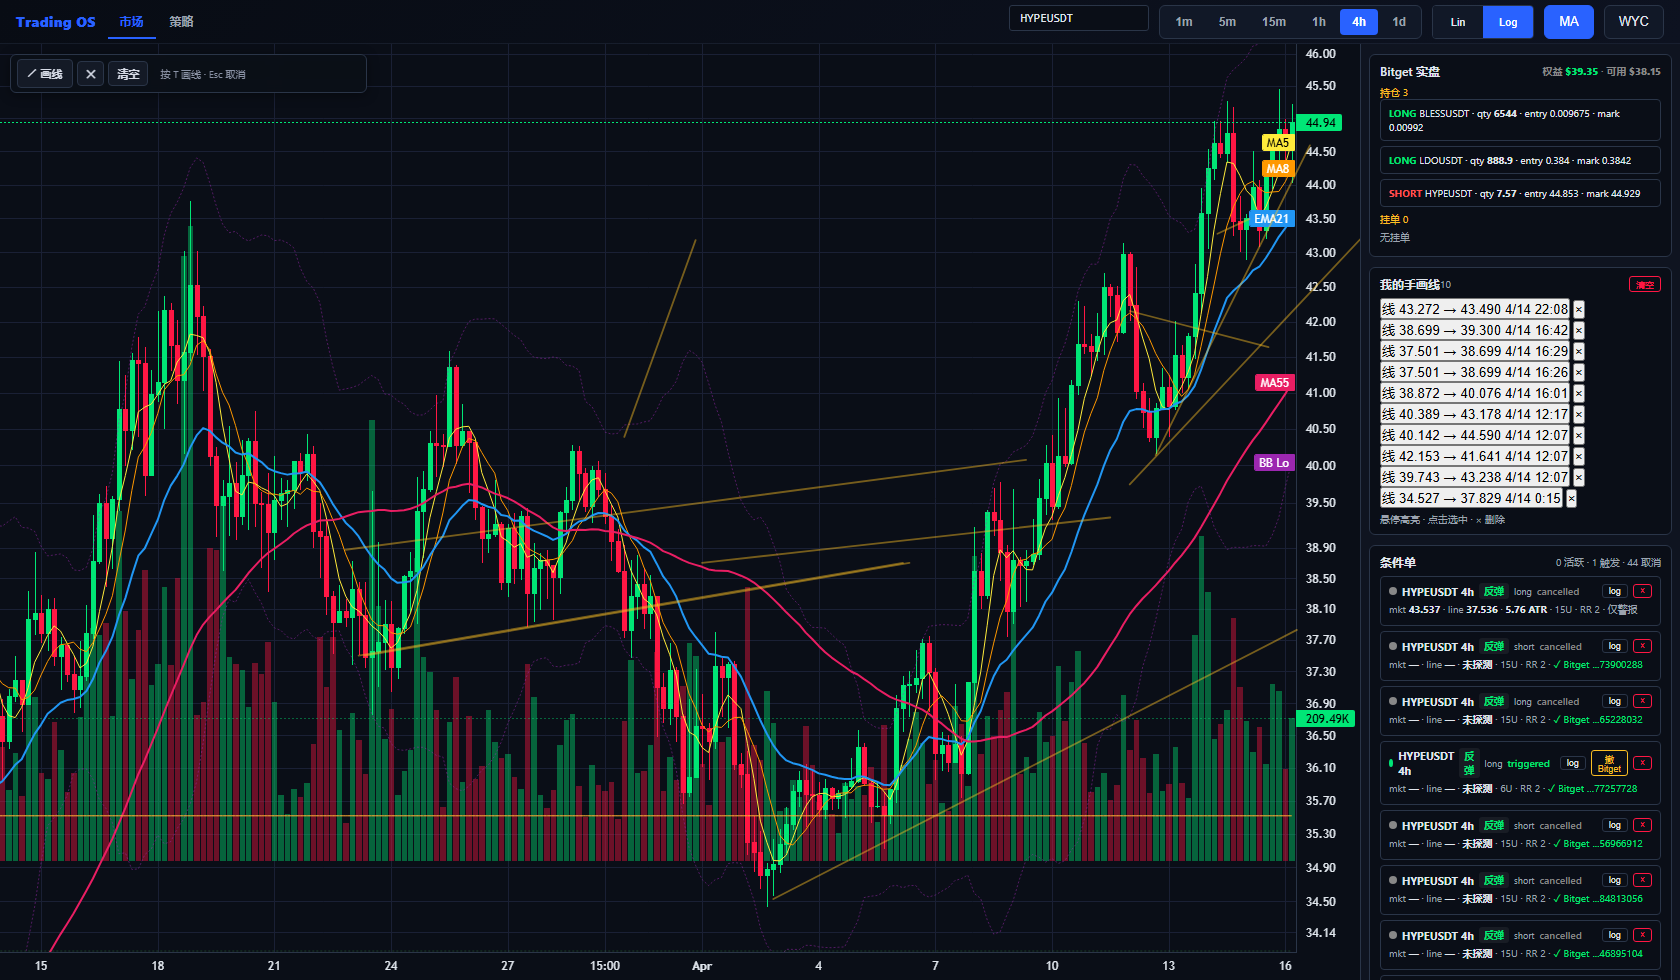
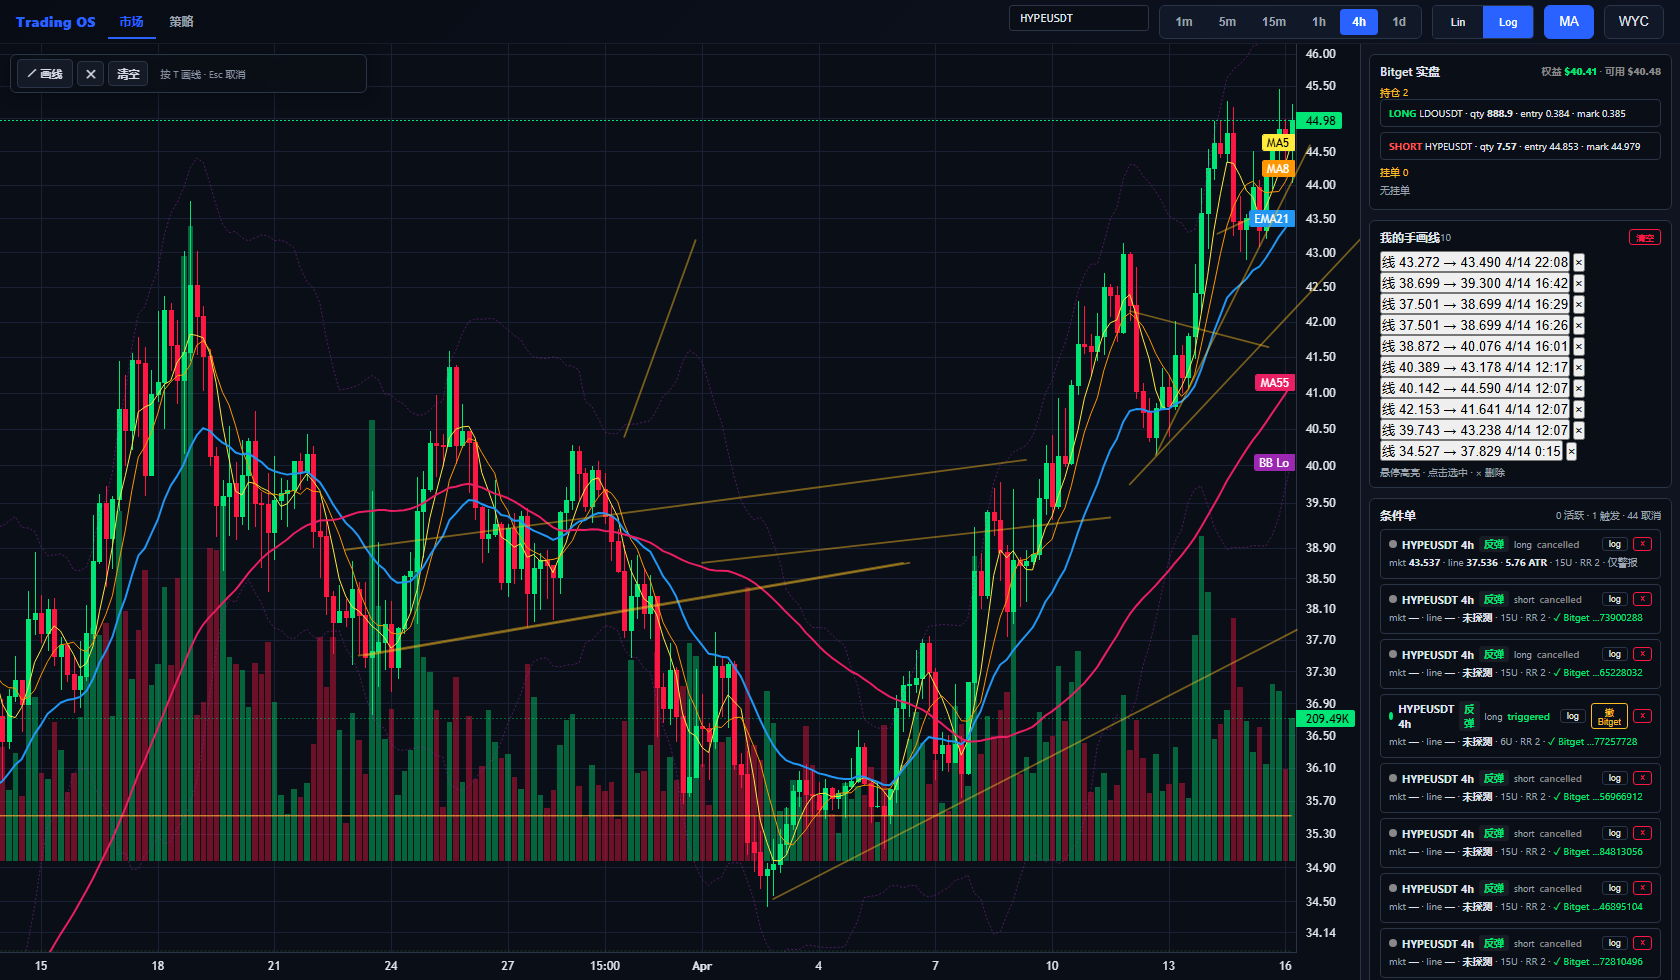
disable: trendline_reversal off on all TFs — no breakout flip trades

Changed region(s): [[0.7738, 0.0612, 0.9905, 1.0]]

diff --git a/server/strategy/mar_bb_runner.py b/server/strategy/mar_bb_runner.py
@@ -87,7 +87,7 @@ DEFAULT_RUNNER_CFG = {
     "trendline_reversal": {
         "15m": False,
         "1h":  False,
-        "4h":  True,
+        "4h":  False,   # disabled — no reversal trades
     },
     "reversal_rr": 2.0,   # RR for the reversal trade
     # ── General ──
